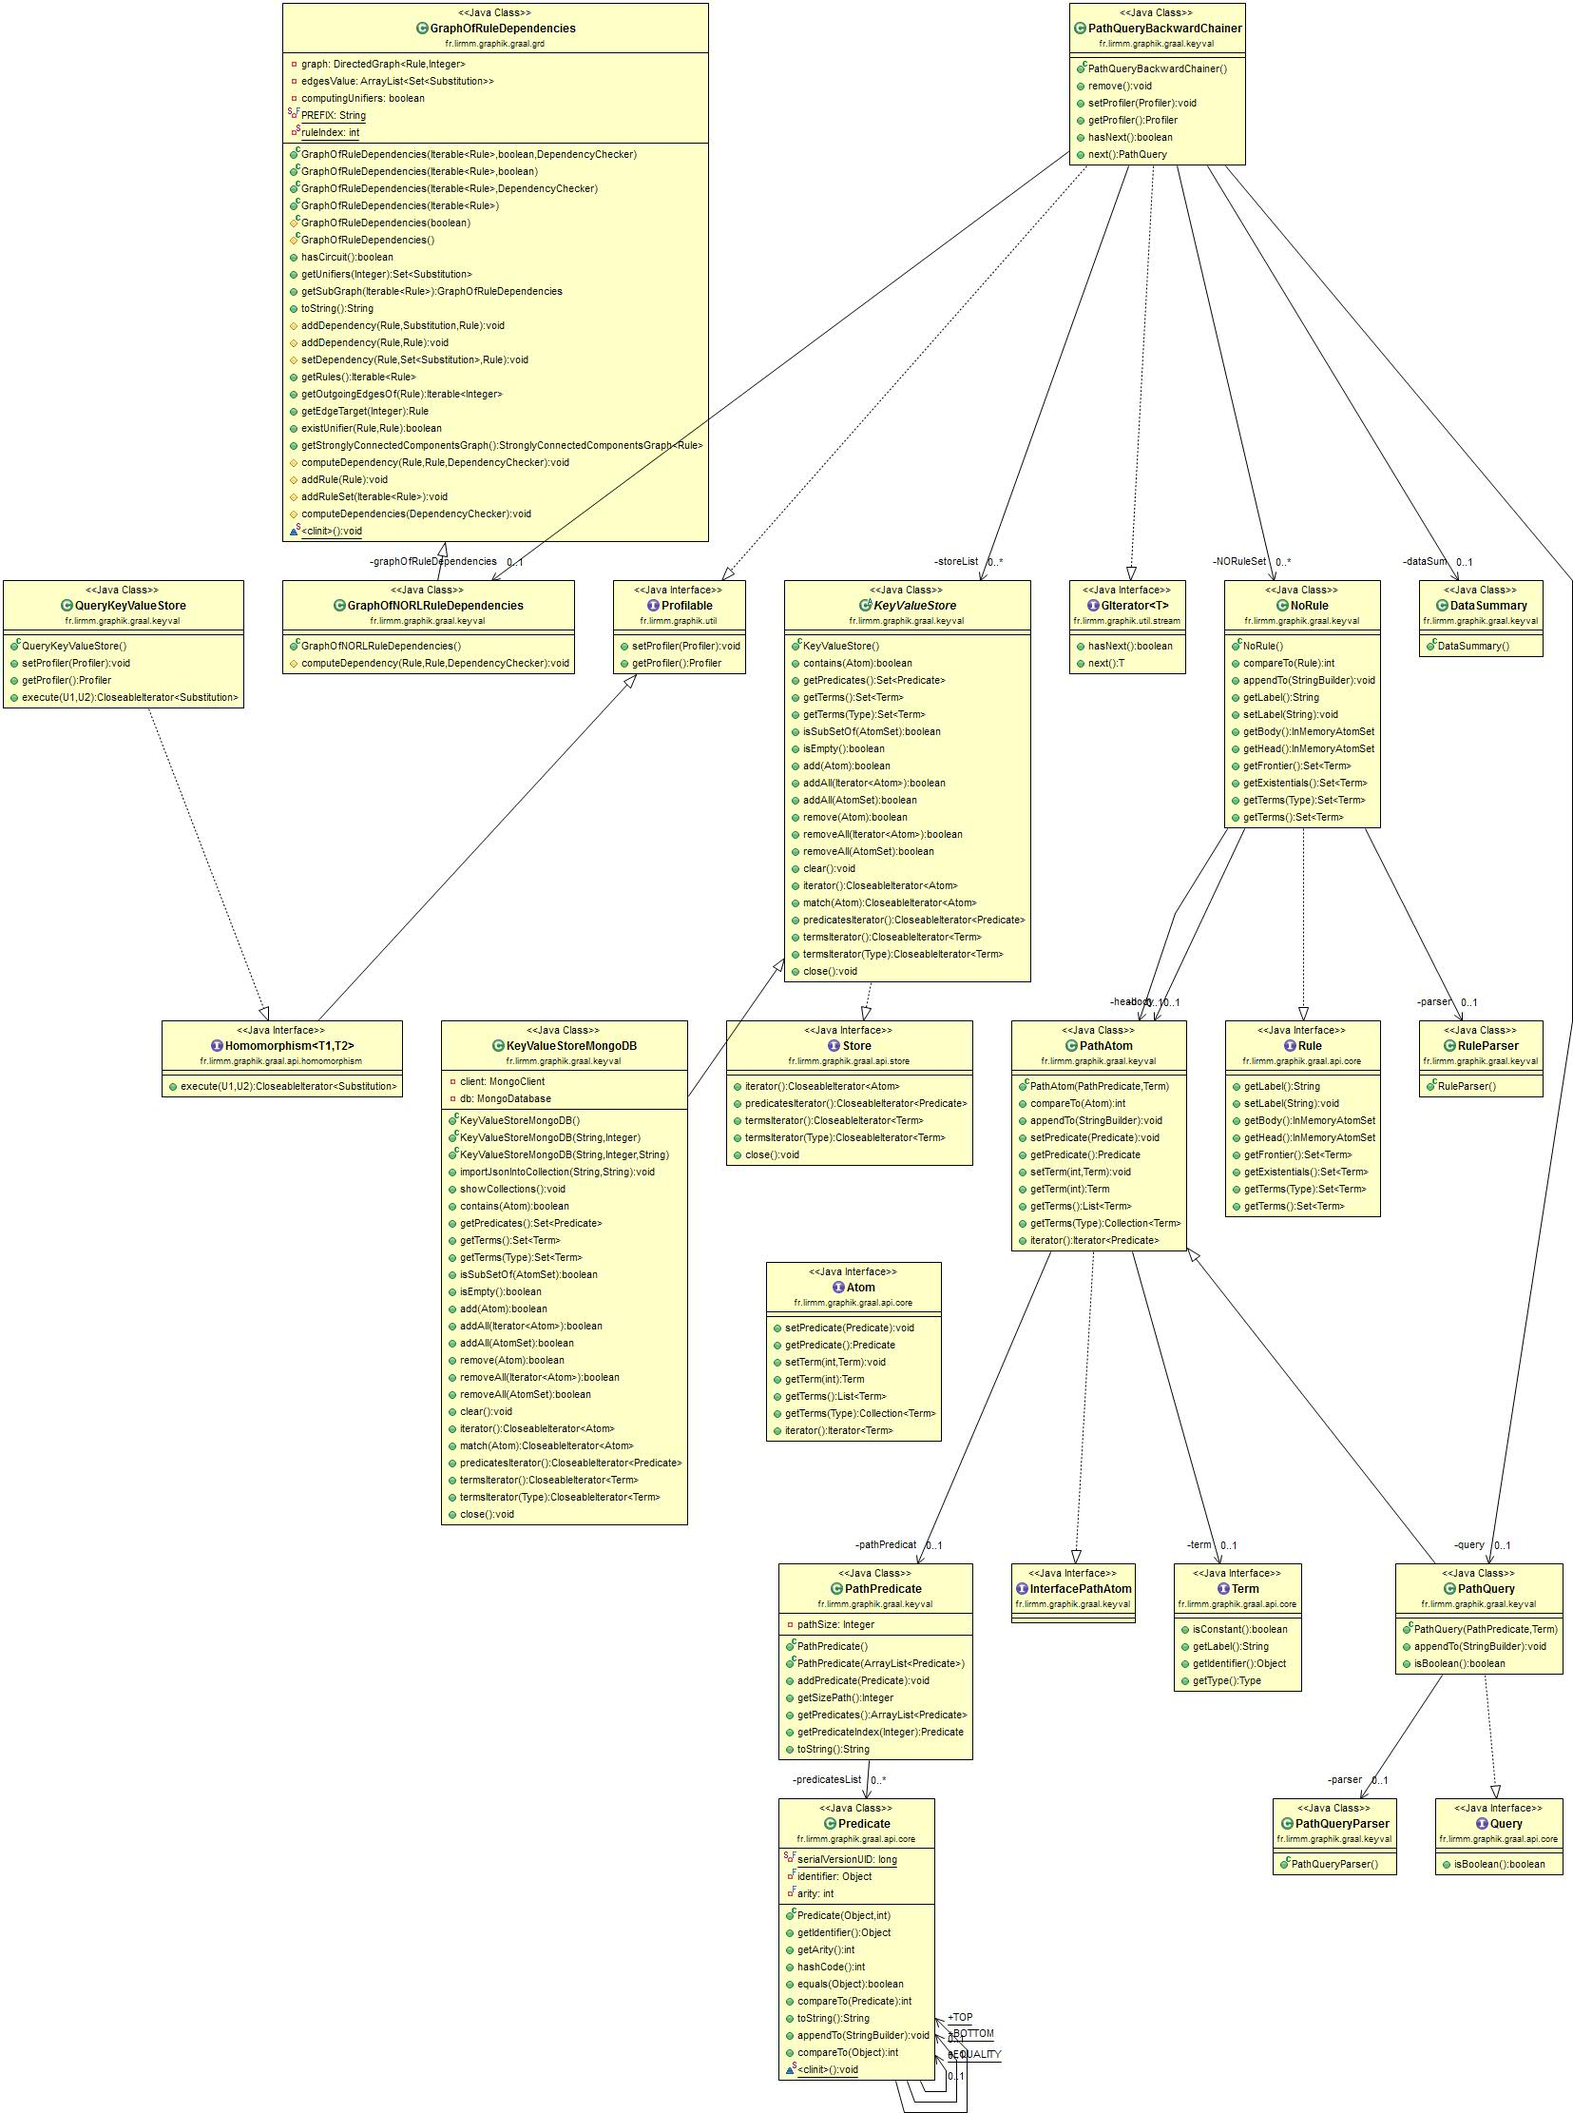
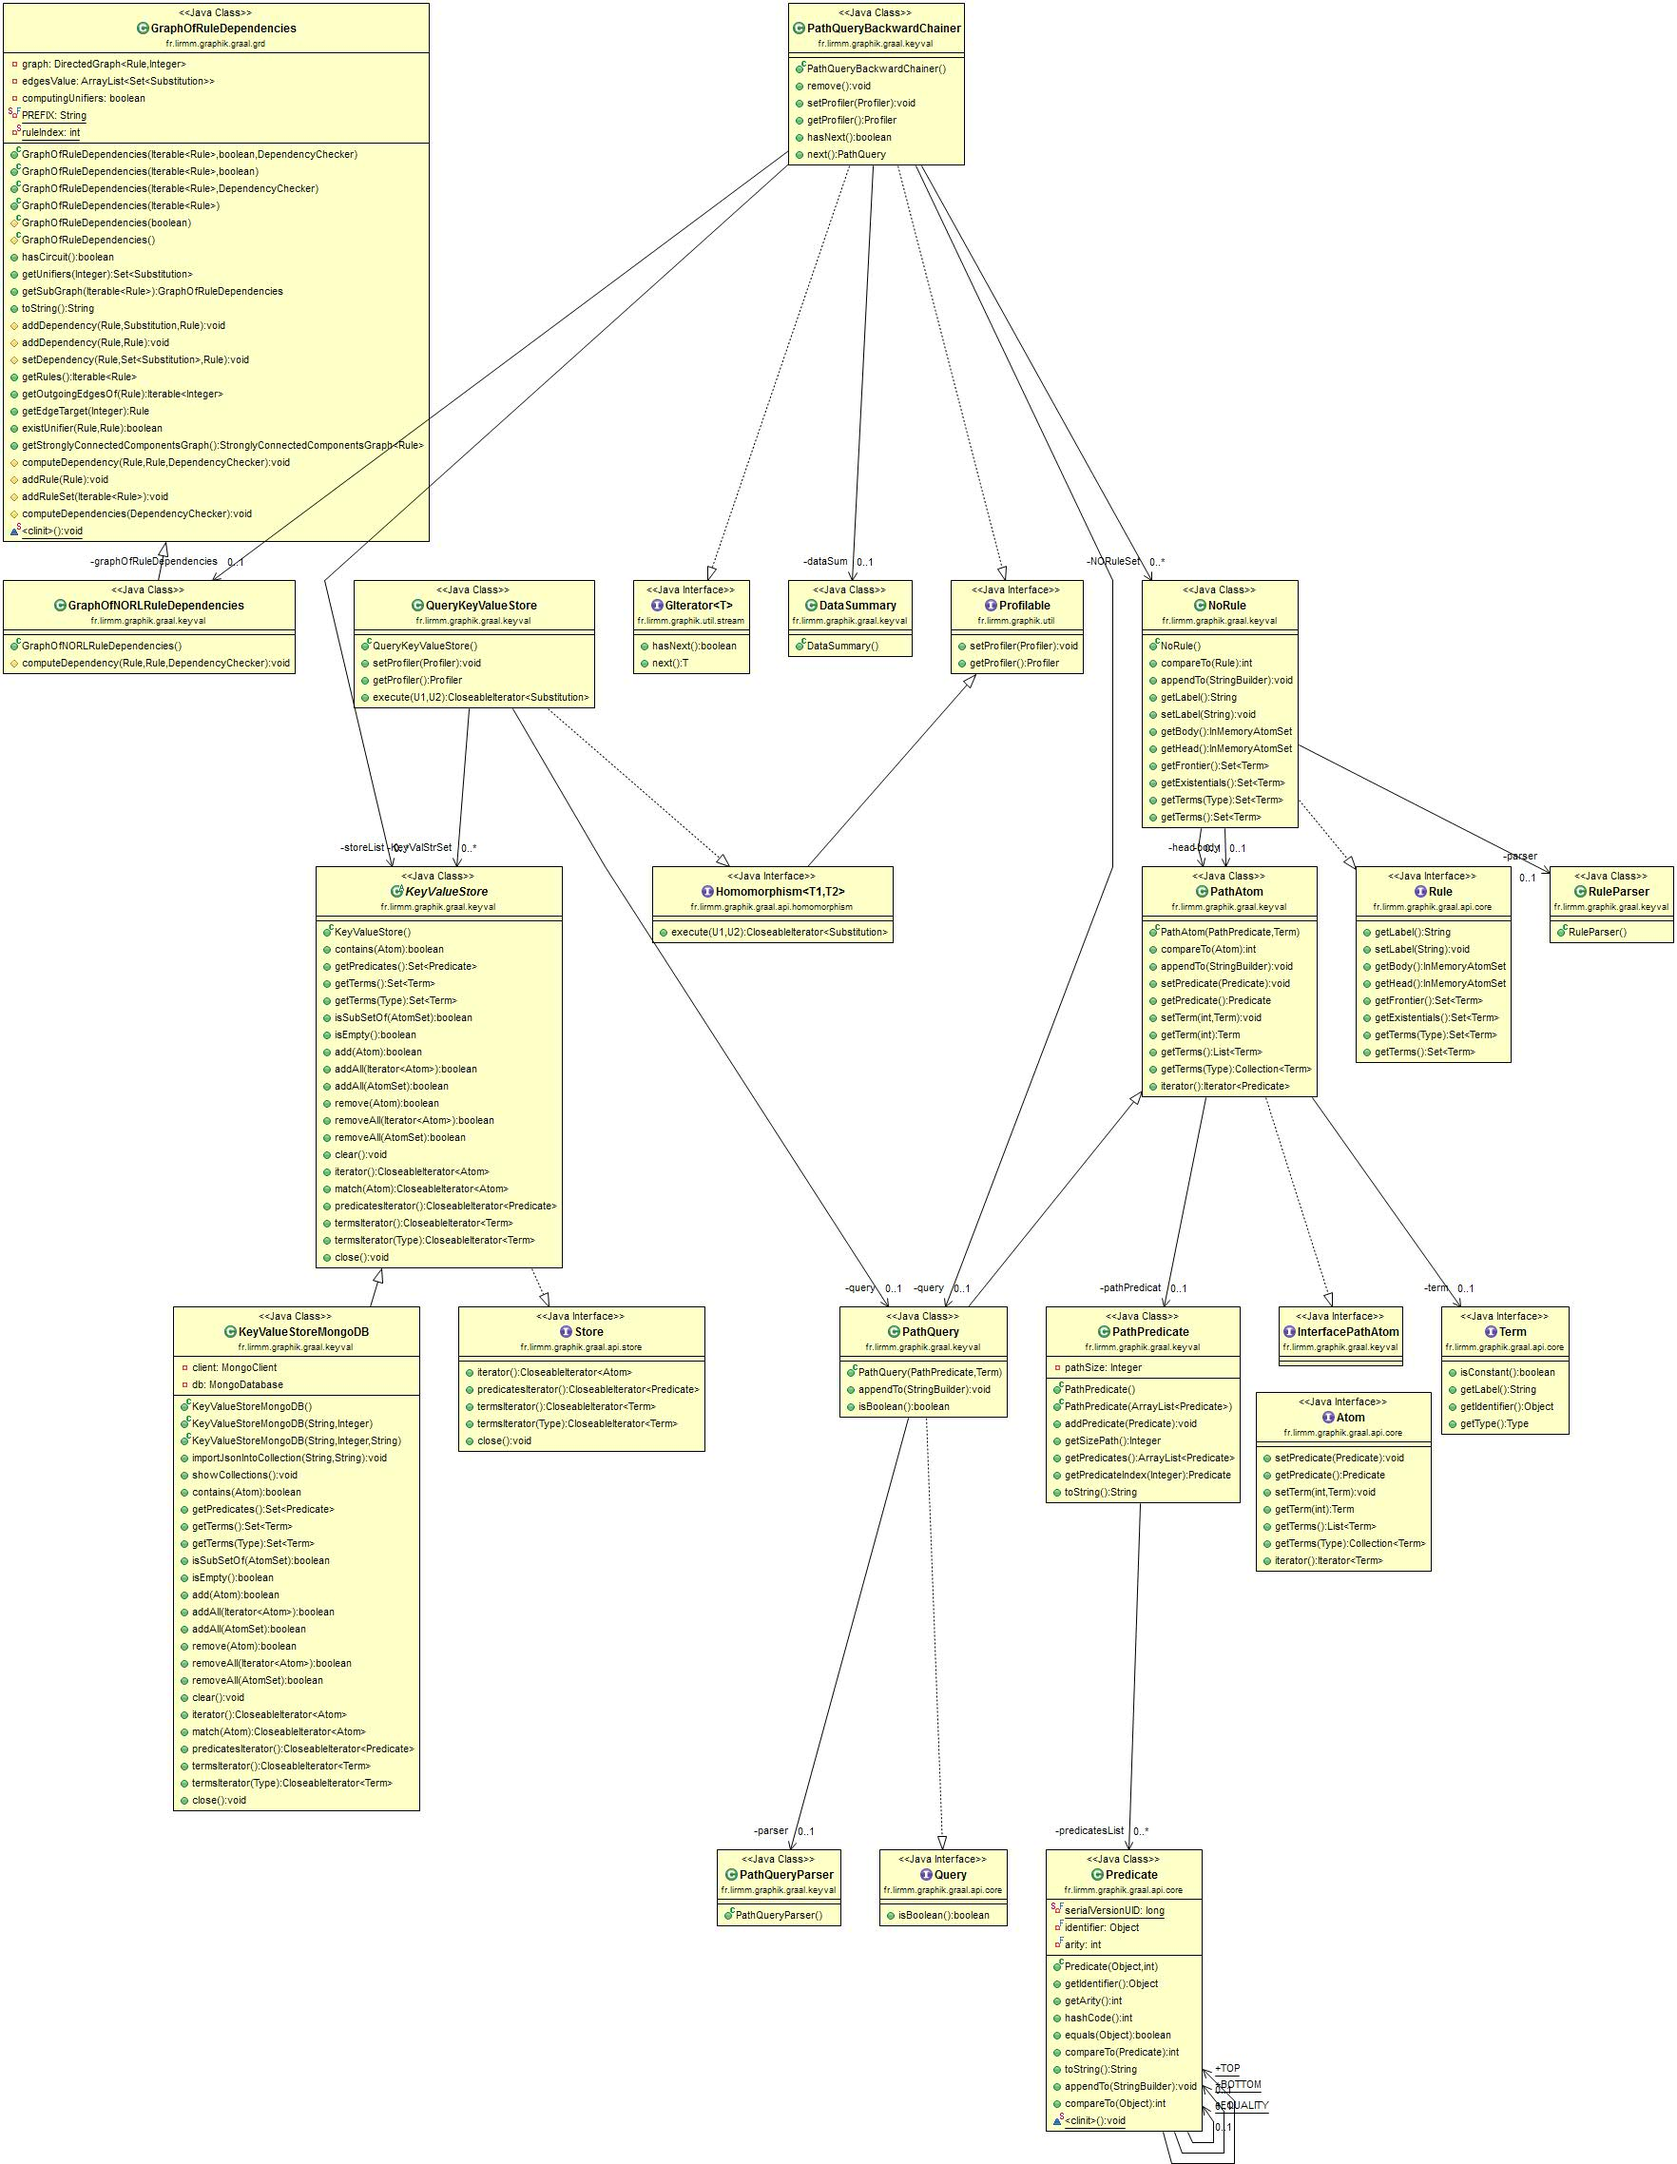
Mise à jours UML

diff --git a/graal-keyval/src/main/java/fr/lirmm/graphik/graal/keyval/QueryKeyValueStore.java b/graal-keyval/src/main/java/fr/lirmm/graphik/graal/keyval/QueryKeyValueStore.java
@@ -42,6 +42,8 @@
  */
 package fr.lirmm.graphik.graal.keyval;
 
+import java.util.Set;
+
 import fr.lirmm.graphik.graal.api.core.Substitution;
 import fr.lirmm.graphik.graal.api.homomorphism.Homomorphism;
 import fr.lirmm.graphik.graal.api.homomorphism.HomomorphismException;
@@ -55,6 +57,8 @@ import fr.lirmm.graphik.util.stream.CloseableIterator;
  */
 public class QueryKeyValueStore implements Homomorphism<PathQuery, KeyValueStore> {
 
+	private PathQuery query;
+	private Set<KeyValueStore> KeyValStrSet;
 	
 	public void setProfiler(Profiler profiler) {
 		// TODO implement this method
